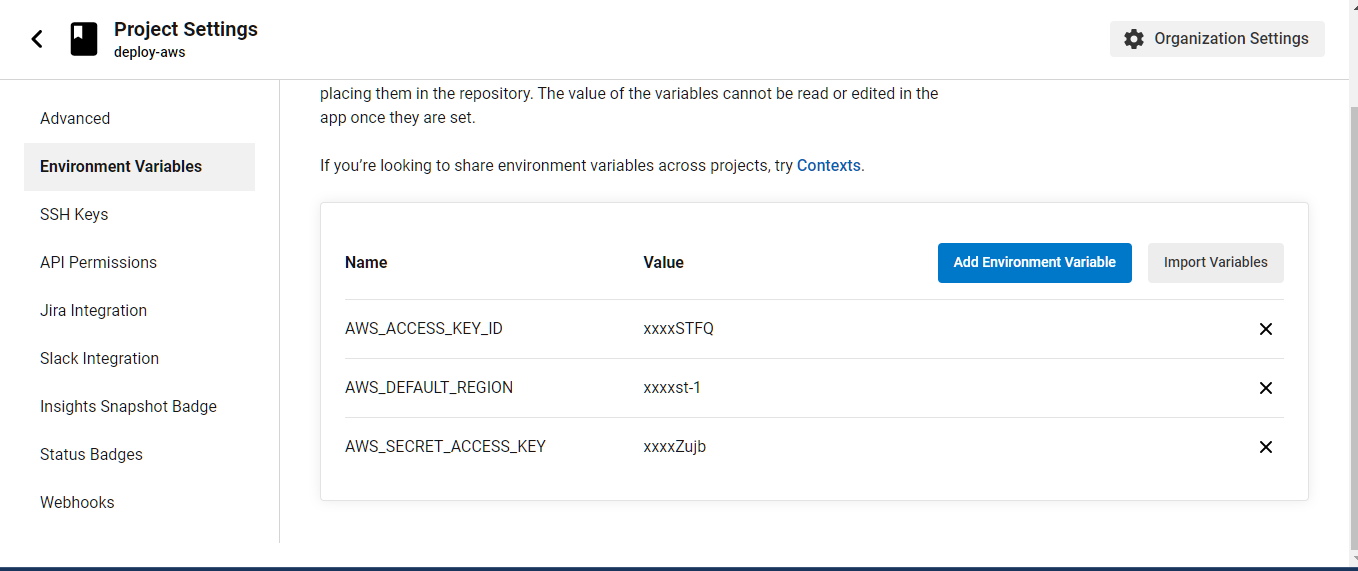
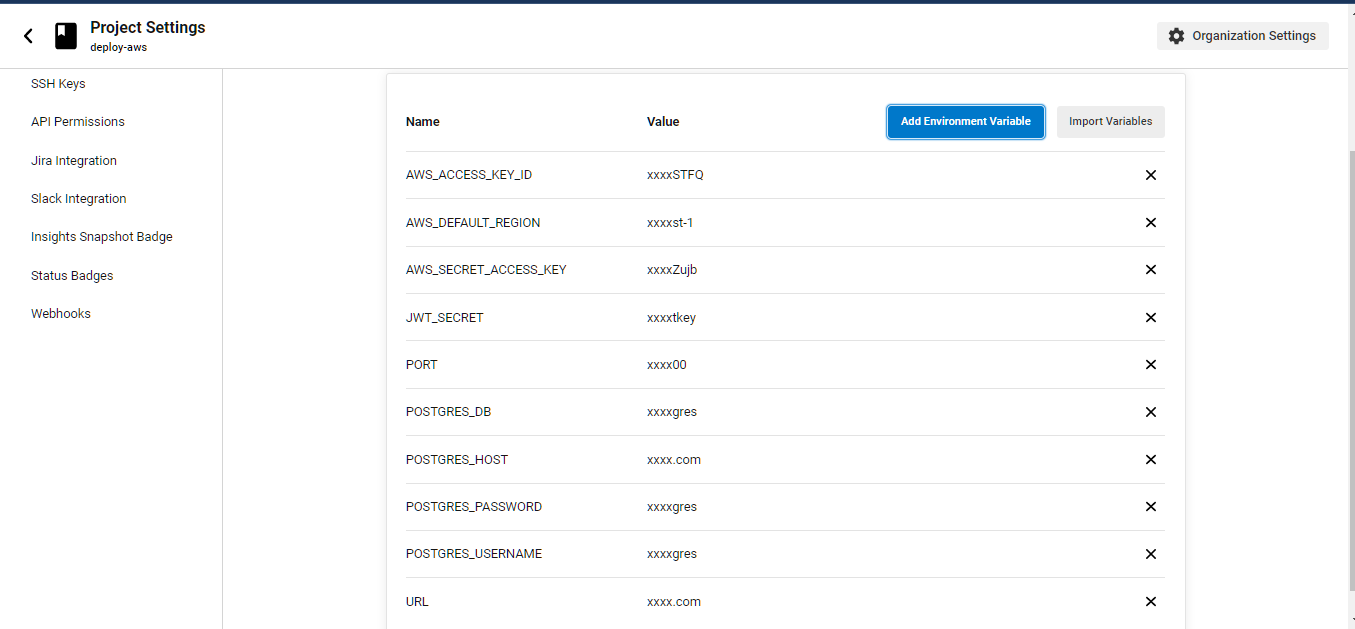
update comands

diff --git a/doc/appDependencies.md b/doc/appDependencies.md
@@ -1,0 +1,42 @@
+# App dependencies
+
+## Front-End dependencies
+``` json
+"dependencies": {
+    "@angular/common": "^8.2.14",
+    "@angular/core": "^8.2.14",
+    "@angular/forms": "^8.2.14",
+    "@angular/http": "^7.2.16",
+    "@angular/platform-browser": "^8.2.14",
+    "@angular/platform-browser-dynamic": "^8.2.14",
+    "@angular/router": "^8.2.14",
+    "@ionic-native/core": "^5.0.0",
+    "@ionic-native/splash-screen": "^5.0.0",
+    "@ionic-native/status-bar": "^5.0.0",
+    "@ionic/angular": "^4.1.0",
+    "core-js": "^2.5.4",
+    "rxjs": "~6.5.4",
+    "zone.js": "~0.9.1"
+  },
+```
+
+## Back-End dependencies
+
+``` json
+"dependencies": {
+    "@types/bcryptjs": "2.4.2",
+    "@types/jsonwebtoken": "^8.3.2",
+    "aws-sdk": "^2.429.0",
+    "bcryptjs": "2.4.3",
+    "body-parser": "^1.18.3",
+    "cors": "^2.8.5",
+    "dotenv": "^8.2.0",
+    "email-validator": "^2.0.4",
+    "express": "^4.16.4",
+    "jsonwebtoken": "^8.5.1",
+    "pg": "^8.7.1",
+    "reflect-metadata": "^0.1.13",
+    "sequelize": "^5.21.4",
+    "sequelize-typescript": "^0.6.9"
+  },
+```

diff --git a/doc/pipelineProcess.md b/doc/pipelineProcess.md
@@ -1,0 +1,37 @@
+# Pipeline Process
+
+## Overview of the pipeline
+
+![alt text for screen readers](/doc/img/pipeline.png "Create database details")
+
+### Define the orbs:
+
+- nodejs.
+- aws-elastic-beanstalk
+- aws-cli
+
+### Define the jobs:
+
+- build
+    - define the docker container
+    - steps
+        - install node
+        - checkout
+        - Install front-end dependencies
+        - Install back-end dependencies
+        - Build Front-End
+        - API Build
+
+-deploy
+    - define the docker container
+    - steps
+        - install node
+        - checkout
+        - elastic-beanstalk setup
+        - aws-cli setup
+        - Deploy Front-End
+        - Deploy Back-end
+
+### Workflows
+
+first run build script then hold for approval then deploy.

diff --git a/README.md b/README.md
@@ -18,6 +18,9 @@ Work on deploying a full-stack app using AWS cloud services provided on this che
 ## Project Archticture
 ![alt text for screen readers](/doc/img/projectArchtiecture.jpeg "Create database details")
 
+## Overview of the pipeline
+![alt text for screen readers](/doc/img/pipeline.png "Create database details")
+
 ## Preparing source code infrastructure for deployment
 
 created .env file to configure all parameters required in the project

diff --git a/doc/infrastructure.md b/doc/infrastructure.md
@@ -1,0 +1,11 @@
+# Infrasrtucture
+
+App structure:
+![alt text for screen readers](/doc/img/infrastructure.png "Create database details")
+
+App needed to:
+
+- AWS RDS for databases.
+- AWS s3 to host the front end.
+- AWS ElasticBeanstalk to run app environment.
+- Cofig with Circle ci to run pipeline process.
